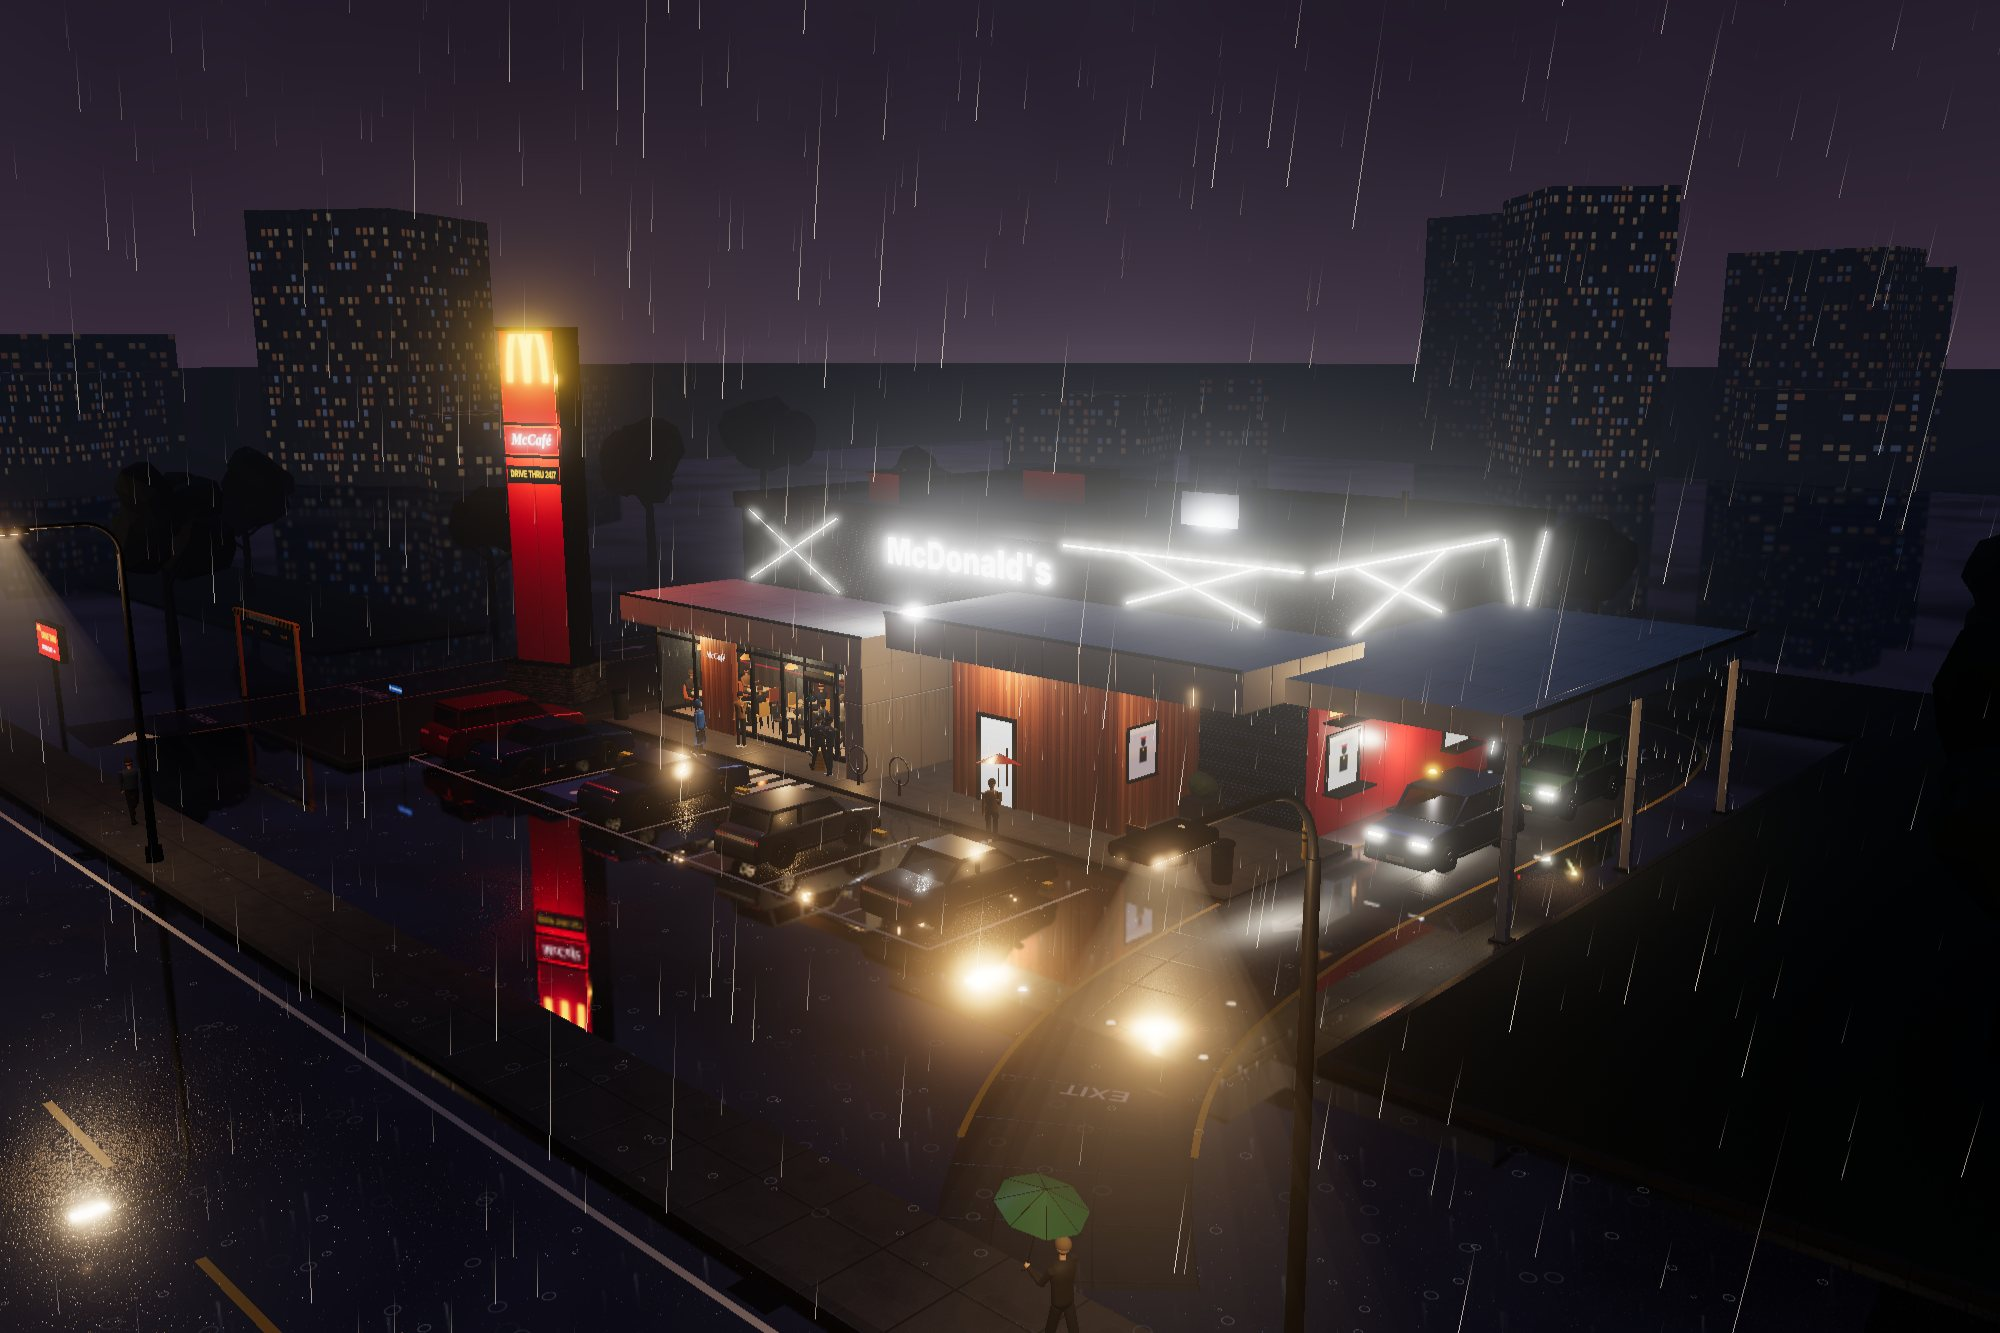
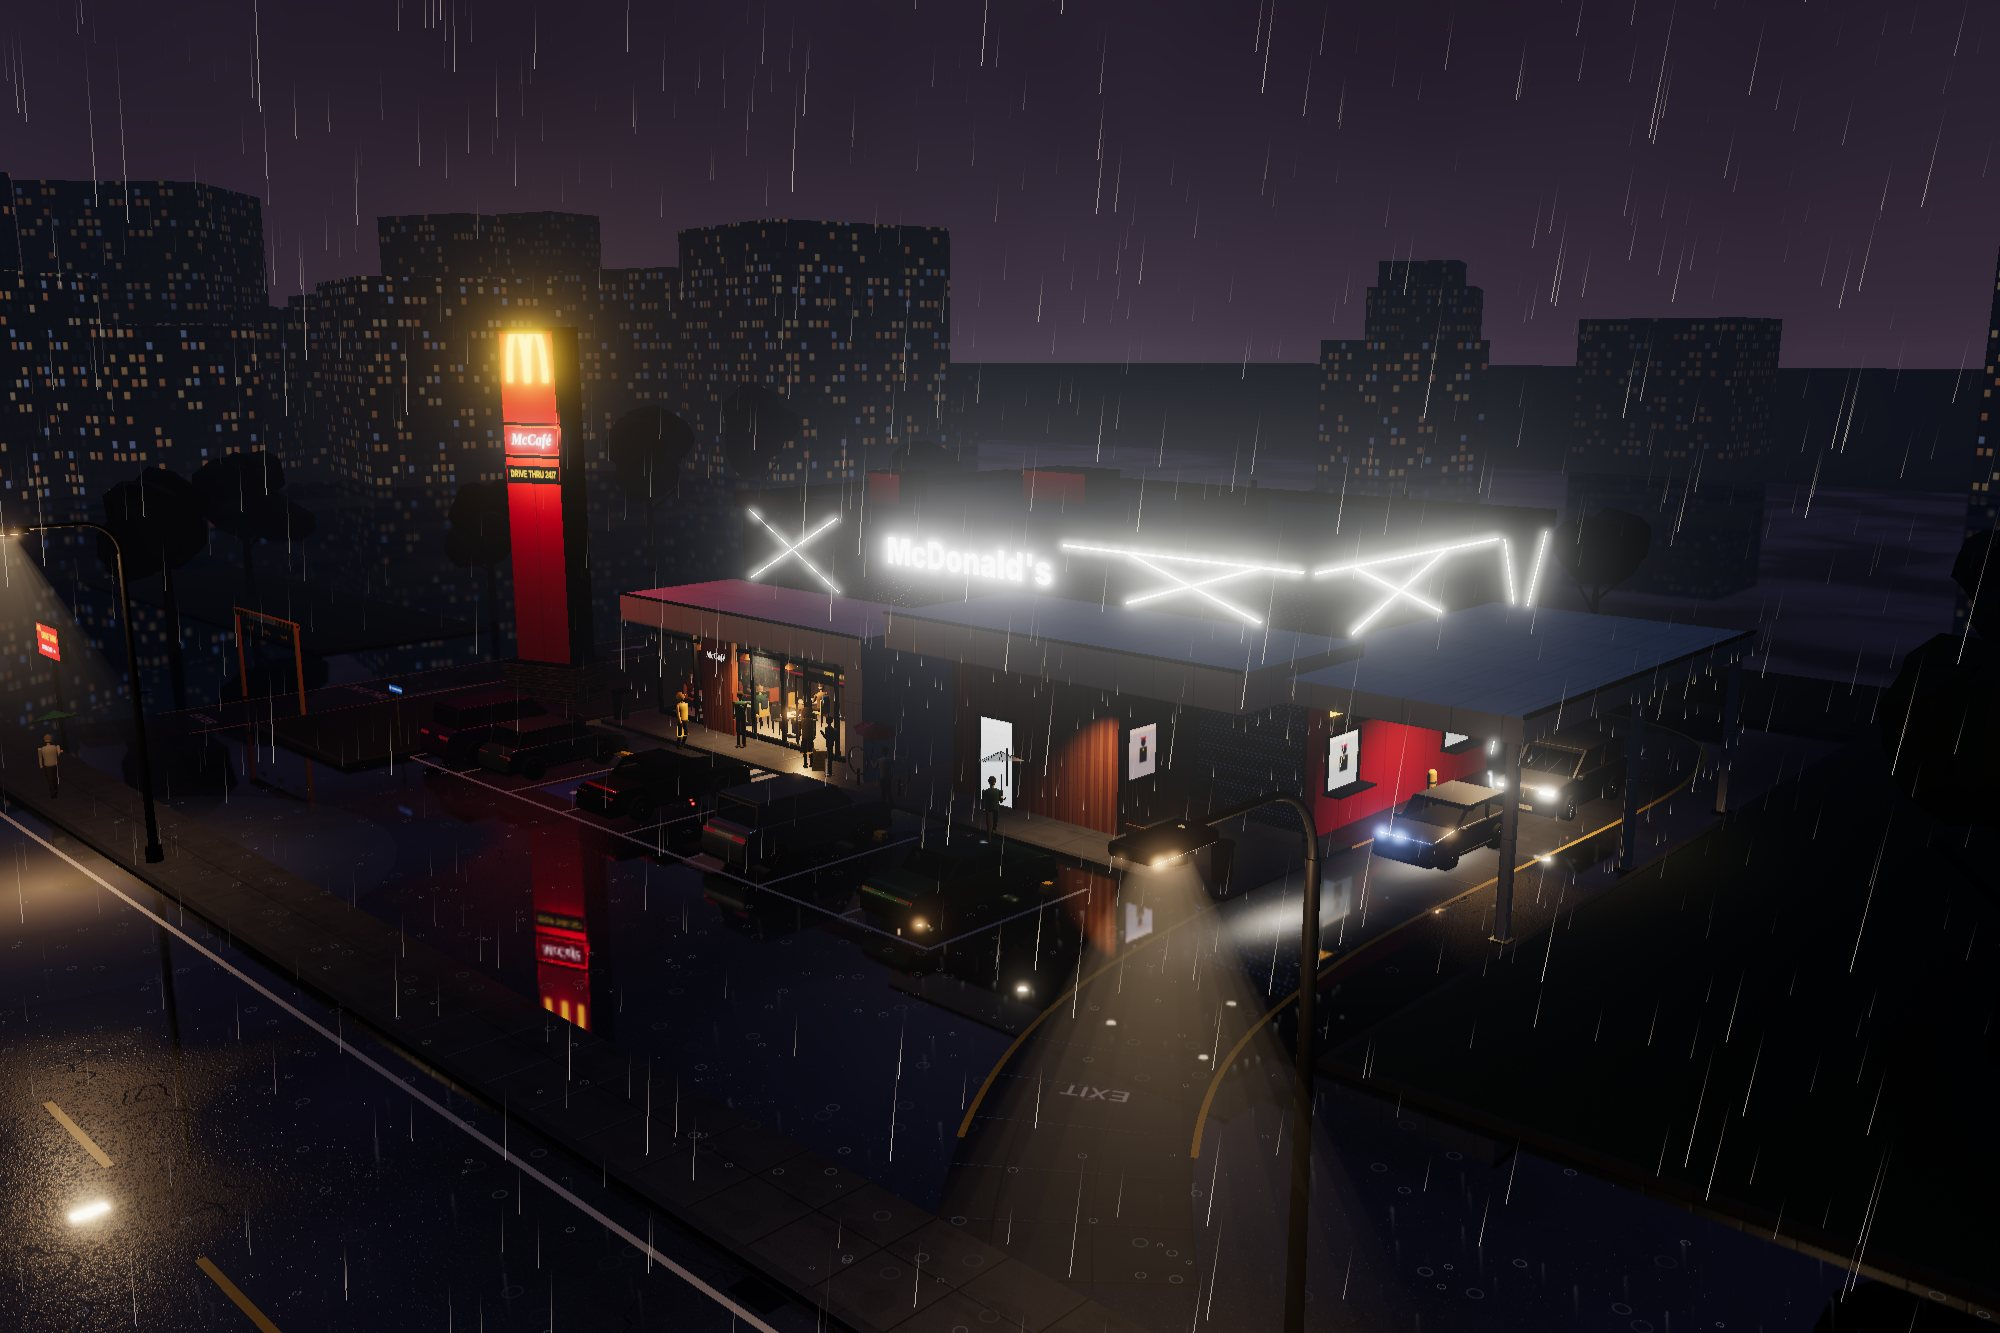
fix(drive-thru): stop the scene going black on Windows GPUs
The scene created seventeen point lights; the other 3D cases use two or
three. Every lit shader is compiled against every light, and on Chrome
for Windows (ANGLE over Direct3D) that compile can stall long enough to
lose the WebGL context, leaving a black page.

- seven real lights: the three canopy lights become downward spotlights
  (which also stops them burning the soffits white), plus dining room,
  pylon and the two street lamps nearest the building; the other glows
  are additive light pools on the ground
- compile shaders with compileAsync before the first frame, with a
  "Preparing shaders" message on the loading plate
- report a failed file, a script error or a lost WebGL context on the
  loading plate instead of leaving it black
- stills re-shot under the new lighting; README notes the light budget

Claude-Session: https://claude.ai/code/session_01X94E3mkS9WyU9NzztKNGpt

diff --git a/cases/library/drive-thru/drive-thru.js b/cases/library/drive-thru/drive-thru.js
@@ -28,11 +28,11 @@ const UI = {
   zh: { title: '雨夜 · 得来速', loading: '正在搭建雨夜场景…',
     queue: '排队车辆', served: '已出餐', inside: '店内顾客', view: '视角', overview: '全景', door: '门口', insideV: '店内', window: '取餐窗',
     follow: '跟车', top: '俯视', street: '街角', order: '点餐屏', pylon: '招牌', rain: '下雨', amount: '雨量', flash: '闪电', bloom: '灯光辉光',
-    rotate: '自动环绕', hint: '拖动旋转 · 滚轮缩放 · 右键平移', doc: '雨夜得来速 - 实时概念', lib: '案例库', study: '案例研究' },
+    rotate: '自动环绕', hint: '拖动旋转 · 滚轮缩放 · 右键平移', doc: '雨夜得来速 - 实时概念', lib: '案例库', study: '案例研究', compiling: '正在准备着色器…', lost: '显卡驱动重置了这个场景，请刷新页面。' },
   en: { title: 'Rainy Night Drive-Thru', loading: 'Building the rainy night…',
     queue: 'In queue', served: 'Served', inside: 'Inside', view: 'CAMERA', overview: 'Overview', door: 'Entrance', insideV: 'Dining', window: 'Window',
     follow: 'Follow car', top: 'Top', street: 'Street', order: 'Menu', pylon: 'Sign', rain: 'Rain', amount: 'Rain amount', flash: 'Lightning', bloom: 'Glow',
-    rotate: 'Auto orbit', hint: 'Drag to orbit · scroll to zoom · right-drag to pan', doc: 'Rainy Night Drive-Thru - Live concept', lib: 'Case library', study: 'Case study' },
+    rotate: 'Auto orbit', hint: 'Drag to orbit · scroll to zoom · right-drag to pan', doc: 'Rainy Night Drive-Thru - Live concept', lib: 'Case library', study: 'Case study', compiling: 'Preparing shaders…', lost: 'The graphics driver reset this scene. Reload the page to start it again.' },
 };
 const CJK = "'PingFang SC','Microsoft YaHei','Noto Sans CJK SC','Source Han Sans SC',sans-serif";
 const S = {   // in-scene signage
@@ -489,6 +489,16 @@ function led(a, b, normal) {      // LED strip set in an aluminium channel
   strut(a, b, .14, M.black, P, true);
   strut(new THREE.Vector3(...a).addScaledVector(n, .05).toArray(), new THREE.Vector3(...b).addScaledVector(n, .05).toArray(), .07, M.led, P, true);
 }
+const poolDecalTex = toTex(draw(128, 128, (g, w, h) => { const gr = g.createRadialGradient(w / 2, h / 2, 0, w / 2, h / 2, w / 2); gr.addColorStop(0, '#fff'); gr.addColorStop(.45, '#666'); gr.addColorStop(1, '#000'); g.fillStyle = gr; g.fillRect(0, 0, w, h); }), { wrap: false });
+const poolDecalGeo = new THREE.CircleGeometry(.5, 32).rotateX(-Math.PI / 2);
+function lightPool(x, z, size, color, strength) {   // fake light on the wet ground: additive, unlit, no shader cost
+  const m = new THREE.Mesh(poolDecalGeo, new THREE.MeshBasicMaterial({ map: poolDecalTex, color: new THREE.Color(color).multiplyScalar(strength), blending: THREE.AdditiveBlending, transparent: true, depthWrite: false }));
+  m.scale.setScalar(size); m.position.set(x, .035, z); m.renderOrder = -8; m.userData.keep = true; scene.add(m); return m;
+}
+function downLight(color, intensity, dist, x, y, z, angle) {
+  const l = new THREE.SpotLight(color, intensity, dist, angle, .7, 2); l.position.set(x, y, z);
+  l.target.position.set(x, 0, z); scene.add(l, l.target); return l;
+}
 function pointLight(color, intensity, dist, x, y, z) {
   const l = new THREE.PointLight(color, intensity, dist, 2); l.position.set(x, y, z); scene.add(l); return l;
 }
@@ -724,7 +734,6 @@ box(.1, .1, .04, indMat, -.9, 1.26, .92).userData.keep = true;
 const dome = new THREE.Mesh(new THREE.SphereGeometry(.09, 12, 8, 0, PI * 2, PI / 2, PI / 2), MS({ color: 0x111111, roughness: .1, metalness: .5 }));
 dome.position.set(1.6, 3.49, .6); menu.add(dome);
 P = world;
-pointLight(0xdfe8ff, 10, 10, 1.6, 3.2, -13.2);
 
 // ---- height-clearance bar at the lane entrance
 for (const x of [-26.6, -21.4]) { cyl(.09, .09, 3.4, M.yellow, x, 1.7, 19.5, 10); box(.3, .04, .3, M.steel, x, .02, 19.5); box(.5, .06, .06, M.steel, x, 3.32, 19.5); }
@@ -783,7 +792,8 @@ for (const x of [-42, -8, 26, 60]) {
   strut([x, 8.8, z + .8], [x, 8.8, z + 2.2], .05, M.black);
   rbox(.5, .14, 1.0, .05, M.black, x, 8.75, z + 2.45);
   const head = new THREE.Mesh(new THREE.PlaneGeometry(.38, .82), lampHeadMat); head.rotation.x = PI / 2; head.position.set(x, 8.67, z + 2.45); P.add(head);
-  pointLight(0xffc98f, 110, 30, x, 8.4, z + 2.45);
+  if (x === -8 || x === 26) pointLight(0xffc98f, 110, 30, x, 8.4, z + 2.45);
+  lightPool(x, z + 2.45, 16, 0xffc98f, x === -8 || x === 26 ? .25 : .7);
   const cone = new THREE.Mesh(new THREE.CylinderGeometry(.25, 4.6, 8.5, 24, 1, true), coneMat); cone.position.set(x, 4.35, z + 2.45); P.add(cone);
 }
 // ---- distant city
@@ -820,14 +830,19 @@ const hemi = new THREE.HemisphereLight(0x3a4a72, 0x0c0c12, .55); scene.add(hemi)
 const moon = new THREE.DirectionalLight(0x7088c0, .25); moon.position.set(-30, 50, -20); scene.add(moon);
 const bolt = new THREE.DirectionalLight(0xc6d6ff, 0); bolt.position.set(30, 80, -60); scene.add(bolt);
 const warm = 0xffc98a;
-pointLight(warm, 22, 13, -10, 3.4, 11.4); pointLight(warm, 22, 13, -4.5, 3.4, 11.4);
-pointLight(0xffc27a, 16, 9, -9.5, 3.0, 8.8); pointLight(0xffc27a, 16, 9, -4, 3.0, 8.8);
-pointLight(warm, 22, 13, 4.5, 4.3, 11.7); pointLight(warm, 22, 13, 10.5, 4.3, 11.2);
-pointLight(warm, 20, 12, 15.5, 4.3, -1); pointLight(warm, 20, 12, 15.5, 4.3, 6);
-pointLight(0xfff0d8, 10, 8, 13.4, 1.8, 2.3);
-pointLight(0xff2a20, 70, 30, -16.2, 10, 13.8);
-pointLight(0xffc040, 26, 16, -16.4, 11.8, 13.6);
-pointLight(0xffffff, 18, 16, -.4, 6.3, 9.5);
+// Seven real point lights. Every lit shader pays for each one, and on Windows
+// (ANGLE / Direct3D) a long light list can stall shader compilation long
+// enough to lose the WebGL context, so the rest of the glow is faked with
+// additive pools on the ground (lightPool), which cost no shader time. The
+// canopy lights are spotlights aimed at the ground, as real downlights are.
+downLight(warm, 60, 14, -6.5, 3.55, 11.2, 1.1);           // entrance canopy (aims down, so the soffit stays dark)
+pointLight(0xffc27a, 24, 12, -6.7, 2.5, 8.8);              // dining room
+downLight(warm, 60, 14, 8.5, 4.5, 11.8, .85);             // timber-box canopy
+downLight(warm, 110, 15, 15.2, 4.5, 2.5, 1.2);            // drive-thru canopy and windows
+pointLight(0xff2a20, 70, 30, -16.2, 10, 13.8);             // pylon
+lightPool(-16.4, 14, 12, 0xffb030, .35);                   // arches glow
+lightPool(1.6, -12.6, 6, 0xdfe8ff, .5);                    // menu board
+lightPool(-.4, 11.5, 10, 0xffffff, .12);                   // sign wash
 
 // ================================================================ drive-thru path
 const curve = new THREE.CatmullRomCurve3([
@@ -1461,6 +1476,19 @@ let time = 0, nextBolt = rand(6, 12), boltT = -1;
 let last = performance.now(), frames = 0;
 const camGoal = new THREE.Vector3(), lookGoal = new THREE.Vector3(), lookCur = new THREE.Vector3(0, 2, 0);
 let uiT = 0, first = true;
+
+// Compile every program before the first frame, in parallel where the browser
+// supports KHR_parallel_shader_compile, so a slow driver shows a message
+// instead of freezing on a black canvas.
+$('loading').textContent = t('compiling');
+try { await renderer.compileAsync(scene, camera); } catch (e) { console.warn(e); }
+last = performance.now();
+
+canvas.addEventListener('webglcontextlost', (e) => {
+  e.preventDefault();
+  renderer.setAnimationLoop(null);
+  const l = document.createElement('div'); l.id = 'loading'; l.textContent = t('lost'); document.body.append(l);
+});
 
 renderer.setAnimationLoop(() => {
   const now = performance.now(), dt = Math.min((now - last) / 1000, .05); last = now; time += dt;

diff --git a/cases/library/drive-thru/index.html b/cases/library/drive-thru/index.html
@@ -71,13 +71,18 @@
 	</script>
 	<script type="module" src="drive-thru.js"></script>
 	<script>
-		/* If the module never starts (no WebGL, or a script failed to load), say so. */
-		setTimeout(() => {
+		/* If the scene never starts (no WebGL, a failed script, an error during the
+		   build), say so on the loading plate instead of leaving a black page. */
+		const zh = () => document.documentElement.lang === "zh-CN";
+		const say = (text) => {
 			const l = document.getElementById("loading");
-			if (l && l.style.opacity !== "0") l.textContent = document.documentElement.lang === "zh-CN"
-				? "无法启动：这个场景需要支持 WebGL 2 的桌面浏览器。"
-				: "This scene needs WebGL 2. Try a current desktop browser.";
-		}, 25000);
+			if (l && l.style.opacity !== "0") l.textContent = text;
+		};
+		addEventListener("error", (e) => say((zh() ? "场景启动失败：" : "The scene failed to start: ") + (e.message || "a file did not load") + "."), true);
+		addEventListener("unhandledrejection", (e) => say((zh() ? "场景启动失败：" : "The scene failed to start: ") + ((e.reason && e.reason.message) || e.reason) + "."));
+		setTimeout(() => say(zh()
+			? "场景仍在准备。如果一直停在这里，这台设备可能不支持 WebGL 2，请换用较新的桌面浏览器。"
+			: "Still preparing. If this does not change, this device may not support WebGL 2 — try a current desktop browser."), 30000);
 	</script>
 </body>
 

diff --git a/cases/library/drive-thru/README.md b/cases/library/drive-thru/README.md
@@ -57,6 +57,15 @@ its third frame, which is what to wait for before a screenshot.
 - **Signage** is drawn by `dtex`, which registers a redraw; the language
   switch calls every redraw. Add a sign there and it is bilingual for free —
   the strings live in `S.en` / `S.zh`, the panel's in `UI.en` / `UI.zh`.
+- **Lights are budgeted.** There are seven real lights: three downward
+  spotlights under the canopies, one each in the dining room and on the pylon,
+  and two street lamps. Every lit shader is compiled against every light, and
+  with seventeen of them Chrome on Windows (ANGLE / Direct3D) could stall
+  long enough to lose the WebGL context: a black page. Everything else that
+  glows is an emissive surface or a `lightPool` on the ground. The scene also
+  compiles its shaders with `compileAsync` before the first frame, and the
+  loading plate reports a failed file, a script error or a lost context
+  instead of staying black.
 - **Static geometry** is built into `world` and `decals` and merged by
   material (`mergeGroup`) at the end of the build: about sixty meshes for the
   building, the site and the city.
